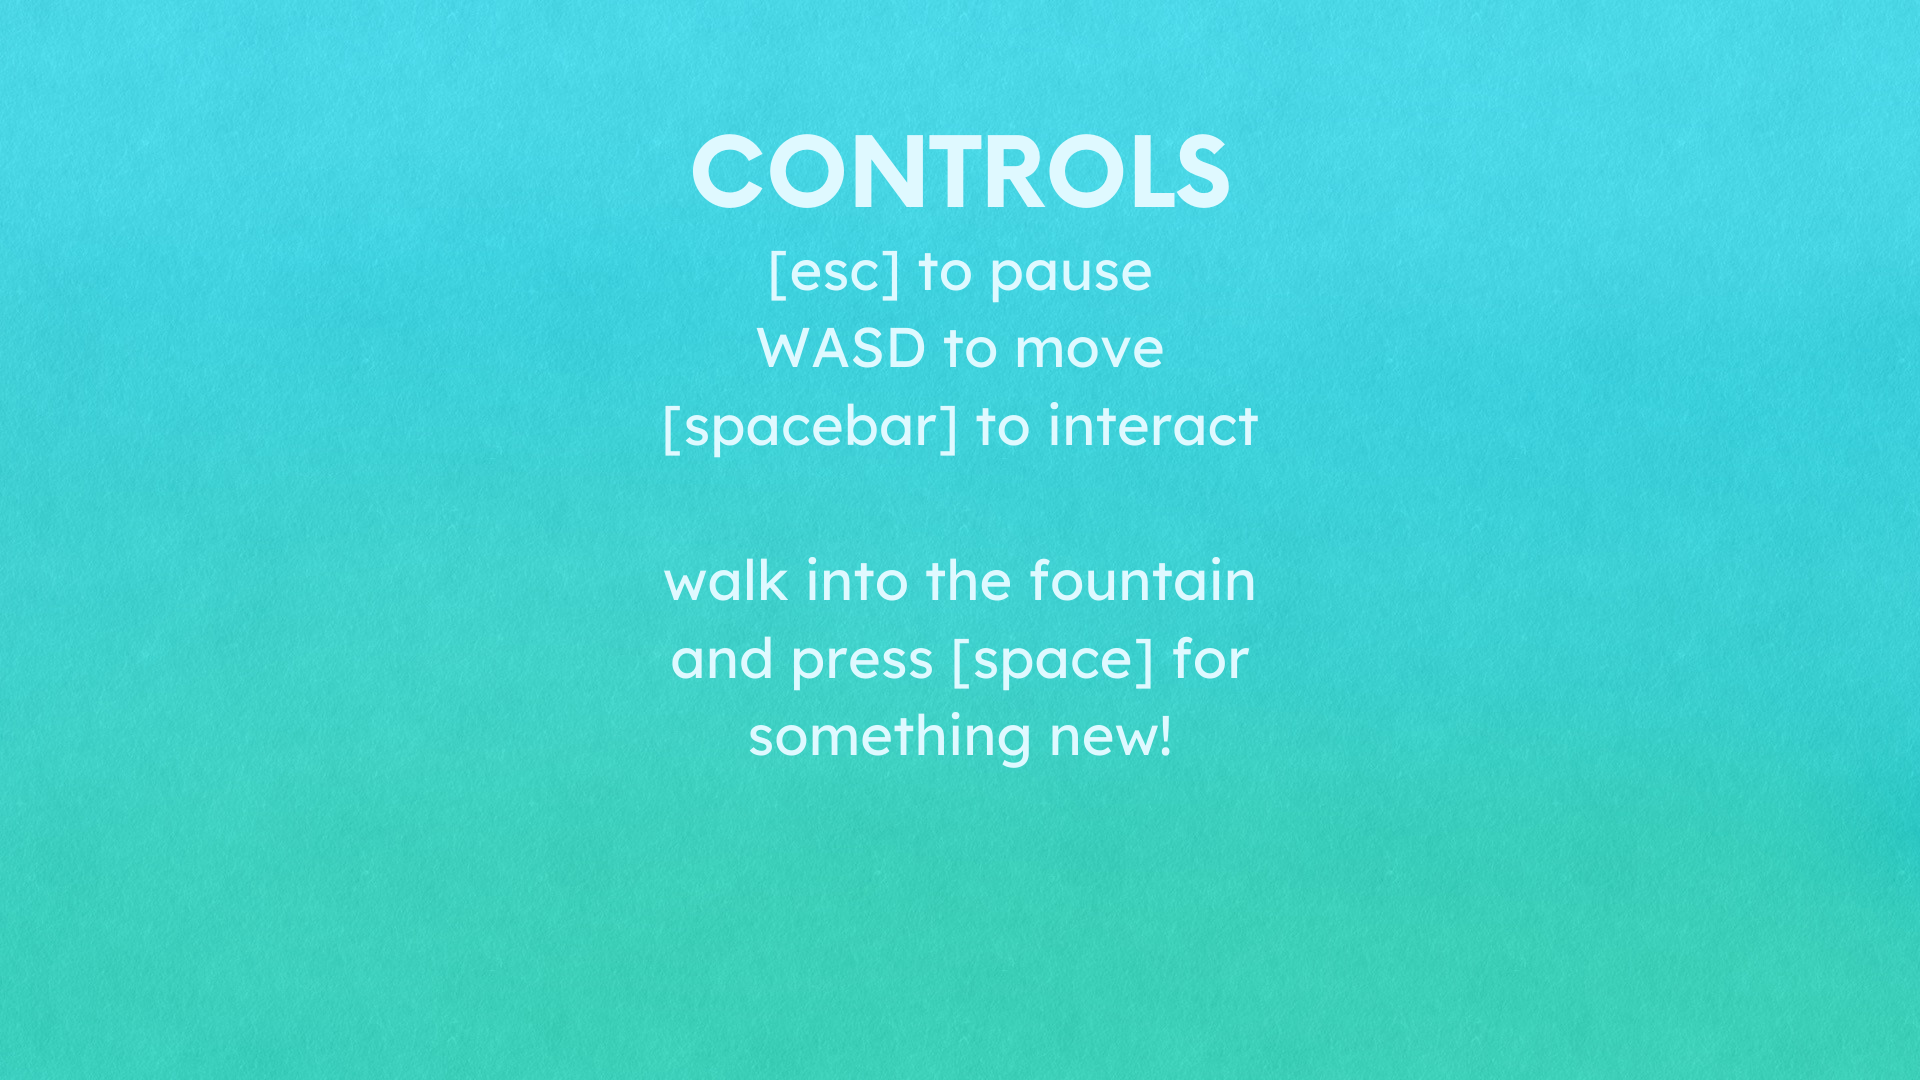
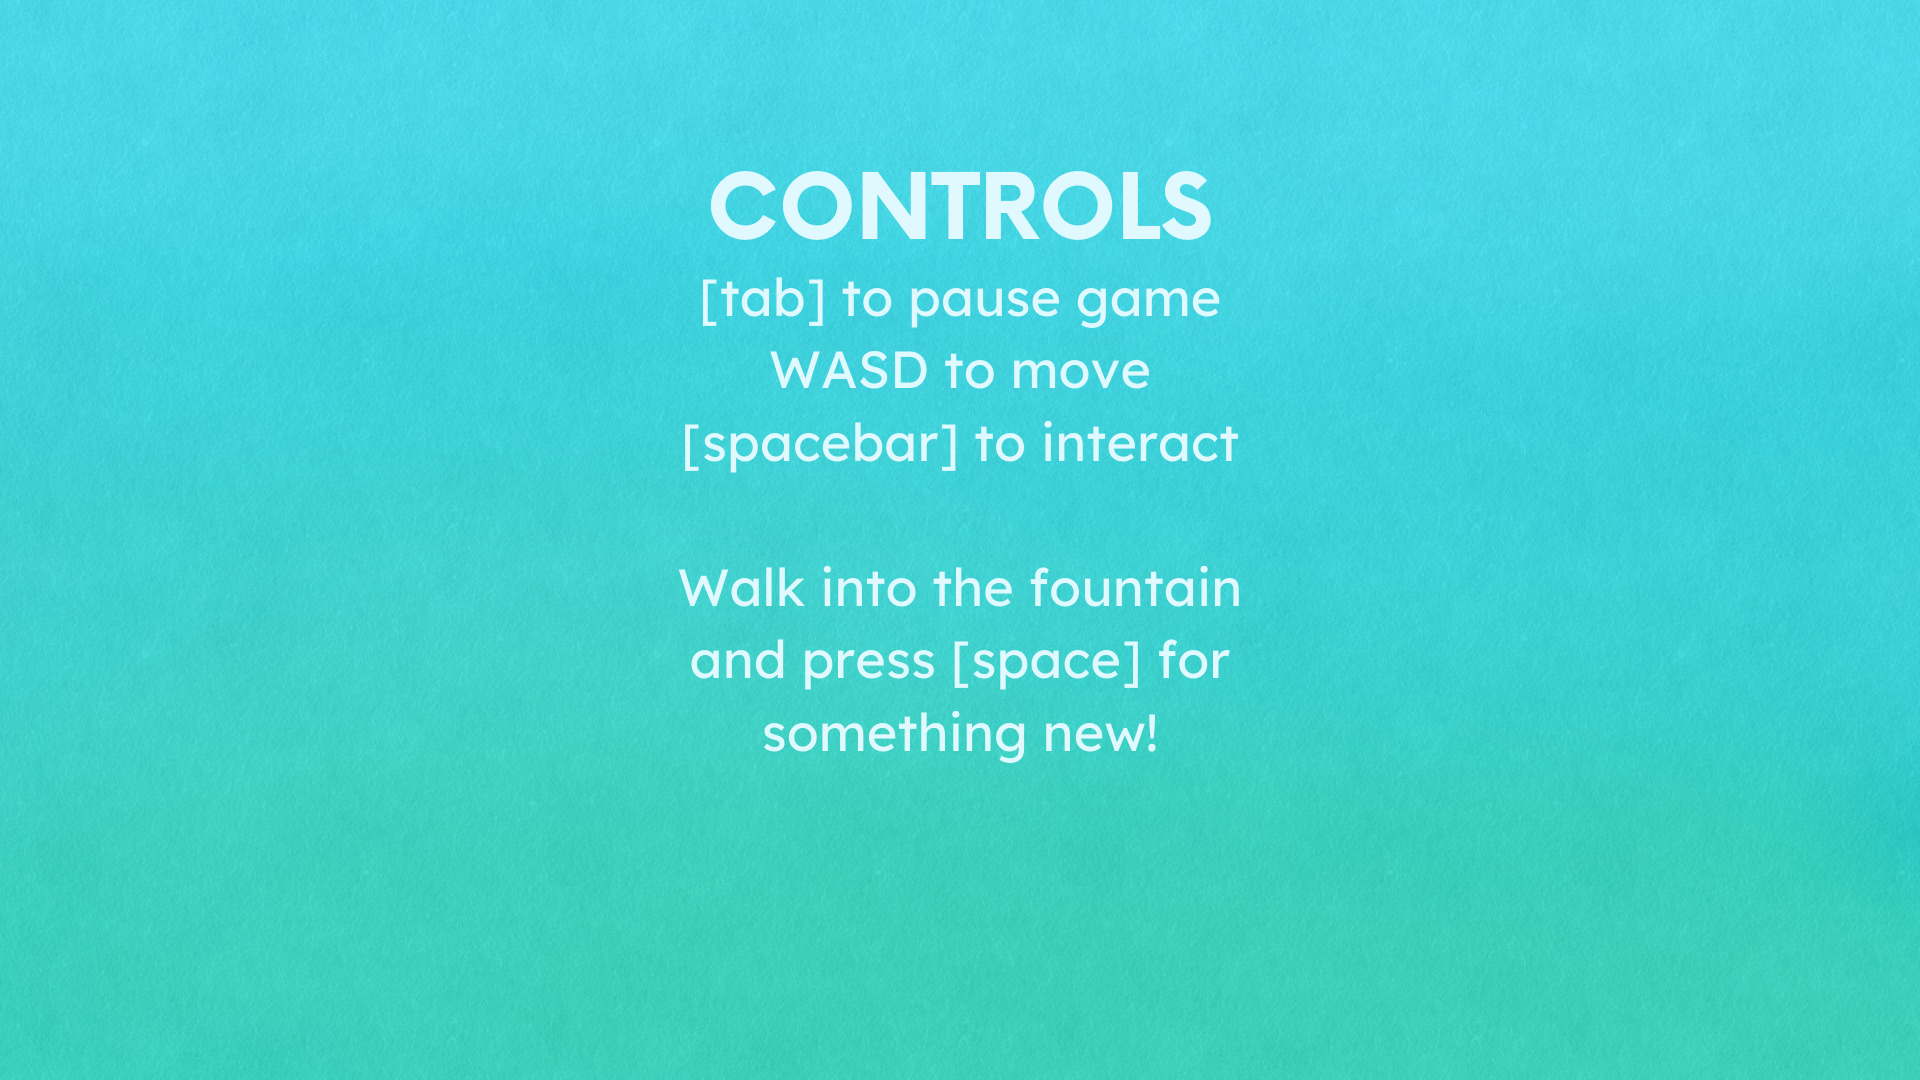
Windows build update

Changed region(s): [[0.3438, 0.1222, 0.6562, 0.4278], [0.3438, 0.5194, 0.6562, 0.7028]]

diff --git a/GameDevAssignment/Assets/Scripts/PauseMenu.cs b/GameDevAssignment/Assets/Scripts/PauseMenu.cs
@@ -14,7 +14,7 @@ public class PauseMenu : MonoBehaviour
 
     private void Update()
     {
-        if (Input.GetKeyDown(KeyCode.Escape))
+        if (Input.GetKeyDown(KeyCode.Tab))
         {
             if (GameIsPaused)
             {
